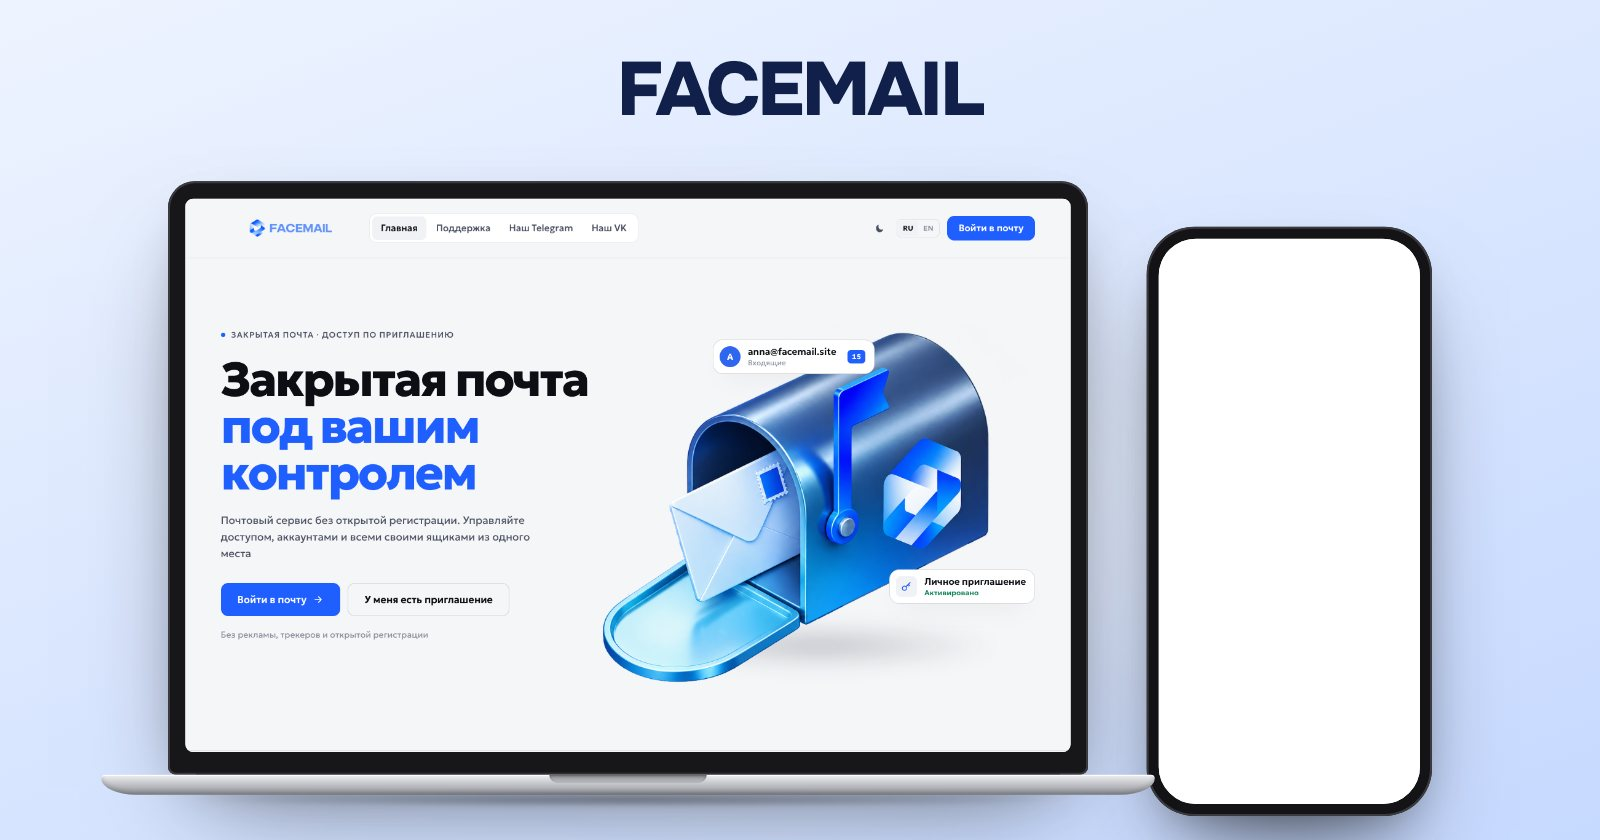
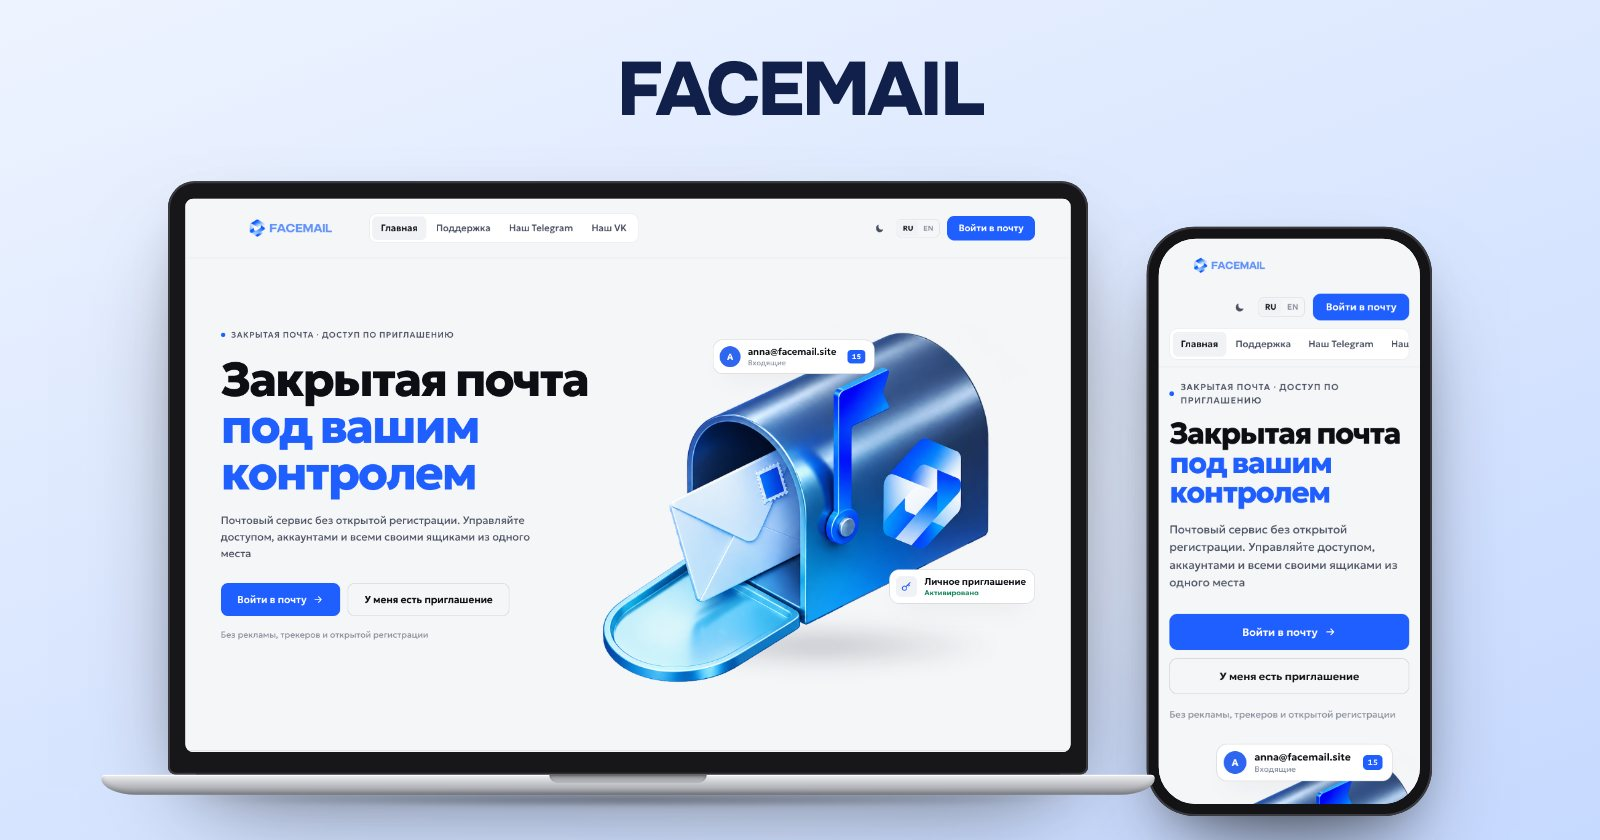
Home: stop the top bar blinking; FACEMAIL cover gets its phone screen back
- the background swell toggled a class on <html> every 12-20 s, re-styling the
  whole page under the blurred top bar; it now lives on .ambient and does not
  run at all while the shader hides the violet field
- the phone shot of facemail.site was a blank frame on 22.10; re-shot and re-rendered

Changed region(s): [[0.7188, 0.3405, 0.9062, 0.8667], [0.75, 0.8976, 0.875, 0.9595], [0.75, 0.3095, 0.7812, 0.3405]]

diff --git a/_landing/src/ambient.ts b/_landing/src/ambient.ts
@@ -65,10 +65,15 @@ export function startAmbient() {
 
   /* ---------- the rare swell, never on a schedule you can feel ---------- */
 
+  // the class sits on the back layer, not on <html>: a root class re-styles the
+  // whole page, and the blurred top bar repainted with a visible blink each time.
+  // With the shader on, the violet field is hidden and the swell has nothing to do
+  const back = document.querySelector<HTMLElement>('.ambient');
   const fire = () => {
+    if (root.classList.contains('has-fx') || !back) return;
     if (performance.now() - lastScroll > 800 && !document.hidden) {
-      root.classList.add('swell');
-      setTimeout(() => root.classList.remove('swell'), 6100);
+      back.classList.add('swell');
+      setTimeout(() => back.classList.remove('swell'), 6100);
     }
     setTimeout(fire, rand(12000, 20000));
   };

diff --git a/_landing/src/ambient.css b/_landing/src/ambient.css
@@ -72,7 +72,7 @@
   75% { scale: 0.9; }
 }
 /* the rare "background swell": one field leans in for a few seconds */
-.swell .light-a {
+.ambient.swell .light-a {
   opacity: calc(var(--o) * 1.9);
   transition: opacity 3s ease-in-out;
 }
